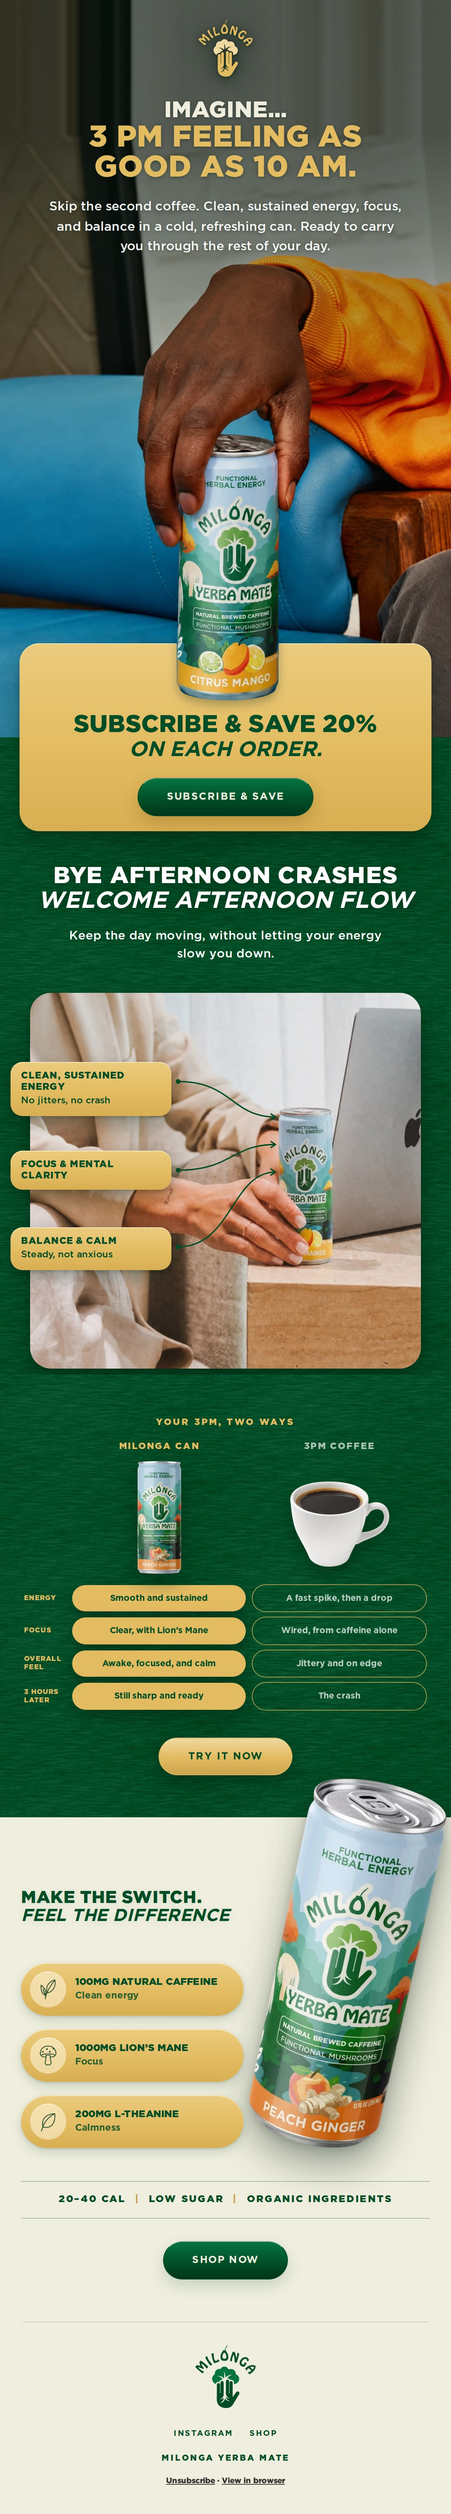
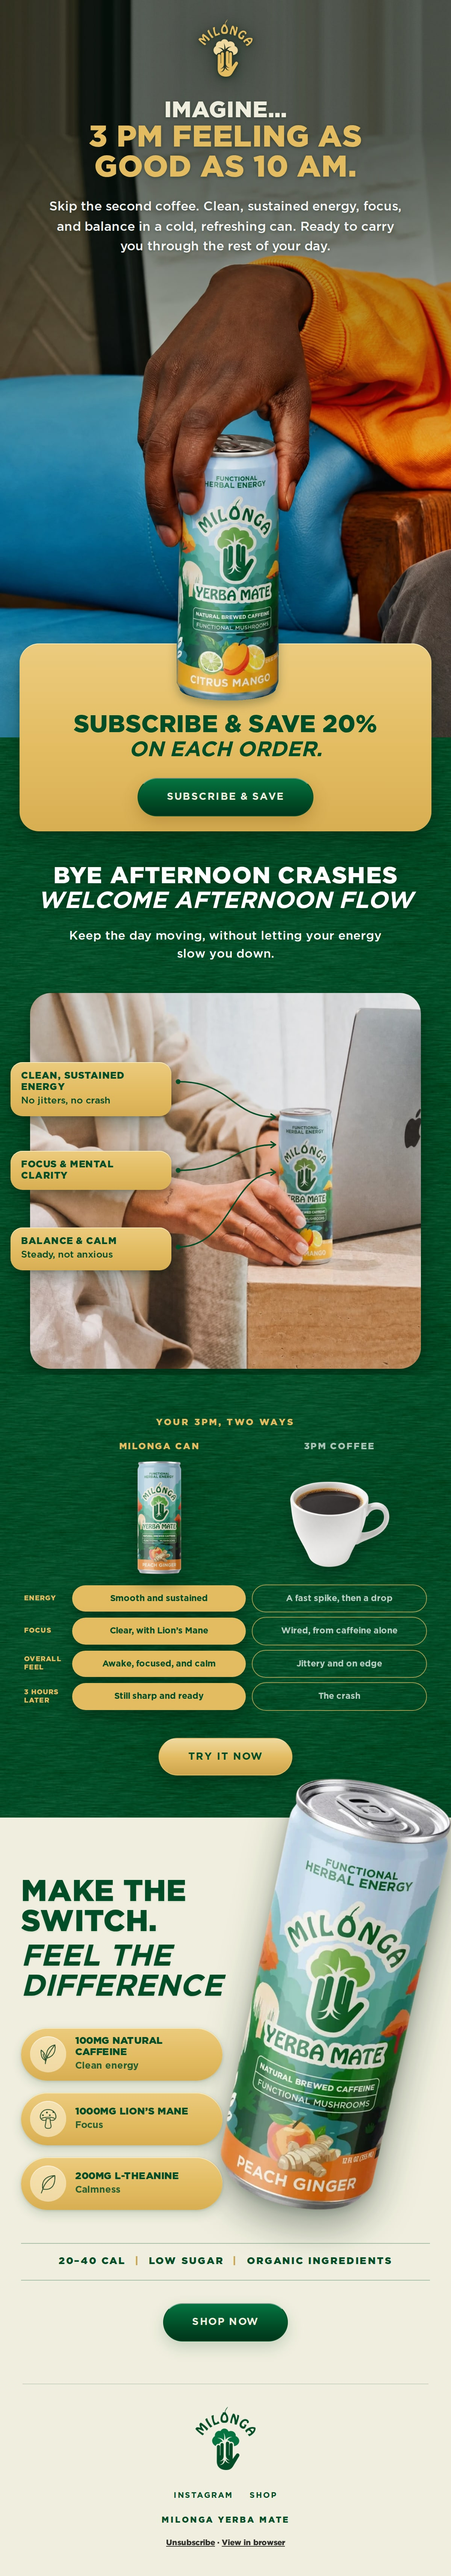
email: close title at 40px in four rows, can grows with it
Claude-Session: https://claude.ai/code/session_01NhEtXPnfeCJfN73SqBkUZ5

diff --git a/email-ds/emails/three-pm-cans.jsx b/email-ds/emails/three-pm-cans.jsx
@@ -28,7 +28,7 @@ const FORMULA = [
 
 // Section 3 geometry, top-down from the section's own edge. The can starts
 // CLOSE.canTop ABOVE that edge (into the forest) and ends on pillsEnd.
-const CLOSE = { padTop: 96, titleH: 58, gap: 40, pillH: 70, pillGap: 18, colW: 296, canTop: -52 };
+const CLOSE = { padTop: 80, titleH: 166, gap: 34, pillH: 70, pillGap: 16, colW: 300, pillW: 268, canTop: -52 };
 CLOSE.pillsEnd = CLOSE.padTop + CLOSE.titleH + CLOSE.gap + 3 * CLOSE.pillH + 2 * CLOSE.pillGap;
 
 // Section 1 geometry: photo pixels → design units, and the subscribe card.
@@ -290,14 +290,20 @@ function ThreePmCans() {
       clipPath: 'inset(-400px 0 0 0)' } },
       h('img', { src: '../public/product/can-peach-ginger-tilt.png',
         alt: 'A can of Milonga Yerba Mate, Peach Ginger, 12 fl oz, tilted.',
-        style: { position: 'absolute', right: 6, top: CLOSE.canTop, height: CLOSE.pillsEnd - CLOSE.canTop,
+        style: { position: 'absolute', right: 0, top: CLOSE.canTop, height: CLOSE.pillsEnd - CLOSE.canTop,
           width: 'auto', display: 'block',
           filter: 'drop-shadow(0 22px 26px rgba(0,26,13,0.34)) drop-shadow(0 4px 6px rgba(0,26,13,0.2))' } }),
 
       h('div', { style: { width: CLOSE.colW, position: 'relative' } },
+        // The title at full voice: four short rows, the statement in Black and
+        // the turn in Bold Italic, both lines broken where the sense breaks.
         h('div', { style: { height: CLOSE.titleH } },
-          h(M.Headline, { line1: 'Make the switch.', line2: 'Feel the difference', bg: 'beige',
-            size: 23, align: 'left', italic: true }),
+          h('div', { style: { fontFamily: FONT, fontWeight: 900, fontSize: 40, lineHeight: 0.98,
+            letterSpacing: '0.01em', textTransform: 'uppercase', color: FOREST, whiteSpace: 'pre-line',
+            textShadow: '0 1px 2px rgba(0,53,27,0.12)' } }, 'Make the\nswitch.'),
+          h('div', { style: { fontFamily: FONT, fontWeight: 700, fontStyle: 'italic', fontSize: 40,
+            lineHeight: 1.0, textTransform: 'uppercase', color: FOREST, whiteSpace: 'pre-line',
+            marginTop: 6, textShadow: '0 1px 2px rgba(0,53,27,0.12)' } }, 'Feel the\ndifference'),
         ),
 
         // The functional three, each a gold pill led by its brand mark. On
@@ -306,7 +312,7 @@ function ThreePmCans() {
         h('div', { style: { marginTop: CLOSE.gap } },
           FORMULA.map(([mark, dose, note], i) => h('div', { key: i, style: { ...PILL,
             display: 'flex', alignItems: 'center', gap: 12, boxSizing: 'border-box',
-            height: CLOSE.pillH, marginBottom: i < FORMULA.length - 1 ? CLOSE.pillGap : 0,
+            width: CLOSE.pillW, height: CLOSE.pillH, marginBottom: i < FORMULA.length - 1 ? CLOSE.pillGap : 0,
             padding: '0 16px 0 12px', borderRadius: 999 } },
             h('span', { style: { flex: 'none', width: 48, height: 48, borderRadius: 999,
               background: 'rgba(255,248,226,0.55)', display: 'flex', alignItems: 'center',
@@ -314,8 +320,7 @@ function ThreePmCans() {
               h(M.BrandIcon, { mark, ink: 'forest', size: 36, alt: '' })),
             h('div', null,
               h('div', { style: { fontFamily: FONT, fontWeight: 900, fontSize: 13,
-                letterSpacing: '0.02em', textTransform: 'uppercase', color: FOREST, lineHeight: 1.15,
-                whiteSpace: 'nowrap' } }, dose),
+                letterSpacing: '0.02em', textTransform: 'uppercase', color: FOREST, lineHeight: 1.15 } }, dose),
               h('div', { style: { fontFamily: FONT, fontWeight: 600, fontSize: 12.5,
                 color: FOREST, opacity: 0.82, marginTop: 2 } }, note),
             ),
